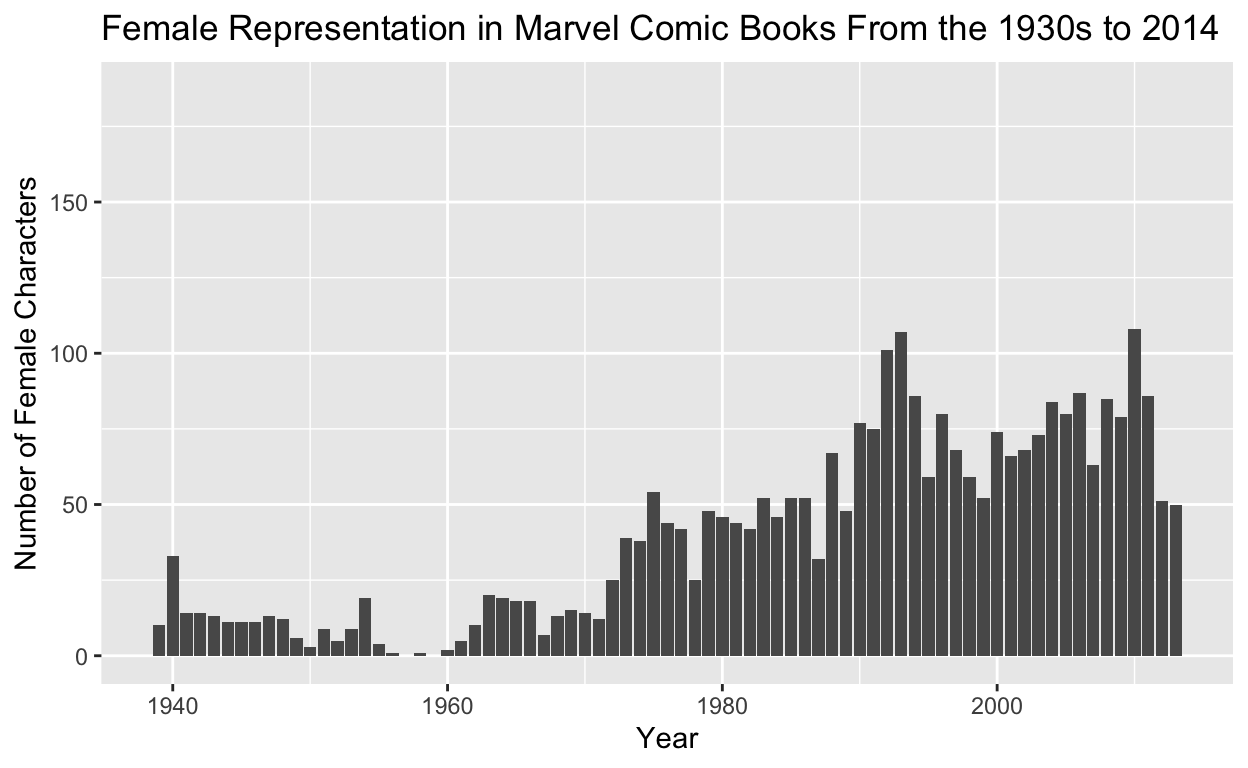
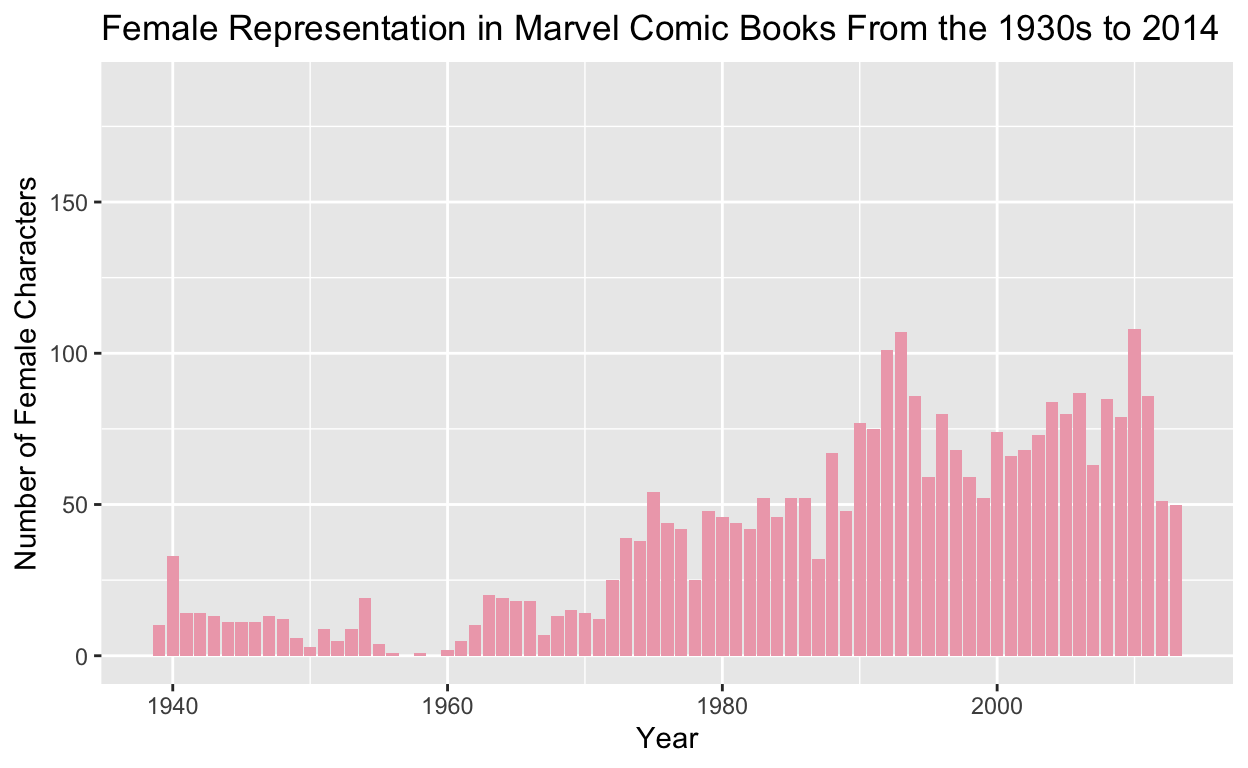
yay

Changed region(s): [[0.3438, 0.4375, 0.9688, 0.875], [0.125, 0.7188, 0.3125, 0.875]]

diff --git a/index.html b/index.html
@@ -1558,7 +1558,7 @@ code span.wa { color: #5e5e5e; font-style: italic; } /* Warning */
 <span>                                    <span class='va'>GSM</span> <span class='op'>==</span> <span class='st'>"Transgender Characters"</span> <span class='op'>~</span> <span class='fl'>1</span>,</span>
 <span>                                    <span class='cn'>TRUE</span> <span class='op'>~</span> <span class='fl'>0</span><span class='op'>)</span>,</span>
 <span>         female_character <span class='op'>=</span> <span class='fu'><a href='https://dplyr.tidyverse.org/reference/if_else.html'>if_else</a></span><span class='op'>(</span><span class='va'>SEX</span> <span class='op'>==</span> <span class='st'>"Female Characters"</span>, <span class='fl'>1</span>, <span class='fl'>0</span><span class='op'>)</span>,</span>
-<span>        minority_character <span class='op'>=</span> <span class='op'>(</span><span class='va'>female_character</span> <span class='op'>==</span> <span class='fl'>1</span> <span class='op'>|</span> <span class='va'>lgbt_character</span> <span class='op'>==</span> <span class='fl'>1</span><span class='op'>)</span><span class='op'>)</span></span>
+<span>         minority_character <span class='op'>=</span> <span class='op'>(</span><span class='va'>female_character</span> <span class='op'>==</span> <span class='fl'>1</span> <span class='op'>|</span> <span class='va'>lgbt_character</span> <span class='op'>==</span> <span class='fl'>1</span><span class='op'>)</span><span class='op'>)</span></span>
 <span></span>
 <span><span class='va'>minority_graph</span> <span class='op'>&lt;-</span> <span class='va'>data2</span> <span class='op'>|&gt;</span></span>
 <span>  <span class='fu'><a href='https://dplyr.tidyverse.org/reference/group_by.html'>group_by</a></span><span class='op'>(</span><span class='va'>ALIGN</span>, <span class='va'>minority_character</span><span class='op'>)</span> <span class='op'>|&gt;</span></span>
@@ -1587,7 +1587,7 @@ code span.wa { color: #5e5e5e; font-style: italic; } /* Warning */
 <span>       x <span class='op'>=</span> <span class='st'>"Alignment"</span>,</span>
 <span>       y <span class='op'>=</span> <span class='st'>"Number of Characters"</span>,</span>
 <span>       fill <span class='op'>=</span> <span class='st'>"Minority Affiliation"</span><span class='op'>)</span> <span class='op'>+</span></span>
-<span>    <span class='fu'><a href='https://ggplot2.tidyverse.org/reference/scale_discrete.html'>scale_x_discrete</a></span><span class='op'>(</span>guide <span class='op'>=</span> <span class='fu'><a href='https://ggplot2.tidyverse.org/reference/guide_axis.html'>guide_axis</a></span><span class='op'>(</span>n.dodge<span class='op'>=</span><span class='fl'>2</span><span class='op'>)</span><span class='op'>)</span></span>
+<span>  <span class='fu'><a href='https://ggplot2.tidyverse.org/reference/scale_discrete.html'>scale_x_discrete</a></span><span class='op'>(</span>guide <span class='op'>=</span> <span class='fu'><a href='https://ggplot2.tidyverse.org/reference/guide_axis.html'>guide_axis</a></span><span class='op'>(</span>n.dodge<span class='op'>=</span><span class='fl'>2</span><span class='op'>)</span><span class='op'>)</span></span>
 <span></span>
 <span><span class='va'>female_graph</span></span></code></pre>
 </div>
@@ -1605,7 +1605,7 @@ code span.wa { color: #5e5e5e; font-style: italic; } /* Warning */
 <span>       x <span class='op'>=</span> <span class='st'>"Alignment"</span>,</span>
 <span>       y <span class='op'>=</span> <span class='st'>"Number of Characters"</span>,</span>
 <span>       fill <span class='op'>=</span> <span class='st'>"LGBT+ Identity"</span><span class='op'>)</span> <span class='op'>+</span></span>
-<span>    <span class='fu'><a href='https://ggplot2.tidyverse.org/reference/scale_discrete.html'>scale_x_discrete</a></span><span class='op'>(</span>guide <span class='op'>=</span> <span class='fu'><a href='https://ggplot2.tidyverse.org/reference/guide_axis.html'>guide_axis</a></span><span class='op'>(</span>n.dodge<span class='op'>=</span><span class='fl'>2</span><span class='op'>)</span><span class='op'>)</span></span>
+<span>  <span class='fu'><a href='https://ggplot2.tidyverse.org/reference/scale_discrete.html'>scale_x_discrete</a></span><span class='op'>(</span>guide <span class='op'>=</span> <span class='fu'><a href='https://ggplot2.tidyverse.org/reference/guide_axis.html'>guide_axis</a></span><span class='op'>(</span>n.dodge<span class='op'>=</span><span class='fl'>2</span><span class='op'>)</span><span class='op'>)</span></span>
 <span></span>
 <span><span class='va'>lgbt_graph</span></span></code></pre>
 </div>
@@ -1647,8 +1647,7 @@ code span.wa { color: #5e5e5e; font-style: italic; } /* Warning */
 <div class="sourceCode">
 <pre class="sourceCode r"><code class="sourceCode r"><span><span class='va'>cor_table</span> <span class='op'>&lt;-</span> <span class='fu'><a href='https://rdrr.io/r/base/data.frame.html'>data.frame</a></span><span class='op'>(</span></span>
 <span>  Variable1 <span class='op'>=</span> <span class='fu'><a href='https://rdrr.io/r/base/c.html'>c</a></span><span class='op'>(</span><span class='st'>"Minority Characters (General)"</span>, <span class='st'>"Female Characters"</span>, <span class='st'>"LGBT+ Characters"</span><span class='op'>)</span>,</span>
-<span>  Correlation <span class='op'>=</span> <span class='fu'><a href='https://rdrr.io/r/base/c.html'>c</a></span><span class='op'>(</span><span class='va'>cor_minority</span>, <span class='va'>cor_female</span>, <span class='va'>cor_lgbt</span><span class='op'>)</span> </span>
-<span><span class='op'>)</span></span>
+<span>  Correlation <span class='op'>=</span> <span class='fu'><a href='https://rdrr.io/r/base/c.html'>c</a></span><span class='op'>(</span><span class='va'>cor_minority</span>, <span class='va'>cor_female</span>, <span class='va'>cor_lgbt</span><span class='op'>)</span><span class='op'>)</span></span>
 <span></span>
 <span><span class='fu'>knitr</span><span class='fu'>::</span><span class='fu'><a href='https://rdrr.io/pkg/knitr/man/kable.html'>kable</a></span><span class='op'>(</span><span class='op'>(</span><span class='va'>cor_table</span><span class='op'>)</span>, col.names <span class='op'>=</span> <span class='fu'><a href='https://rdrr.io/r/base/c.html'>c</a></span><span class='op'>(</span><span class='st'>"Idenity"</span>, <span class='st'>"Correlation With Moral Alignment"</span><span class='op'>)</span><span class='op'>)</span></span></code></pre>
 </div>
@@ -1741,37 +1740,11 @@ code span.wa { color: #5e5e5e; font-style: italic; } /* Warning */
 <div class="layout-chunk" data-layout="l-body">
 <div class="sourceCode">
 <pre class="sourceCode r"><code class="sourceCode r"><span><span class='va'>data2</span> <span class='op'>&lt;-</span> <span class='va'>data2</span> <span class='op'>|&gt;</span></span>
-<span>  <span class='fu'><a href='https://dplyr.tidyverse.org/reference/mutate.html'>mutate</a></span><span class='op'>(</span></span>
-<span>    pre_1970 <span class='op'>=</span> <span class='fu'><a href='https://dplyr.tidyverse.org/reference/if_else.html'>if_else</a></span><span class='op'>(</span><span class='va'>Year</span> <span class='op'>&lt;=</span> <span class='fl'>1970</span>, <span class='fl'>1</span>, <span class='fl'>0</span><span class='op'>)</span></span>
-<span>  <span class='op'>)</span></span>
+<span>  <span class='fu'><a href='https://dplyr.tidyverse.org/reference/mutate.html'>mutate</a></span><span class='op'>(</span>pre_1970 <span class='op'>=</span> <span class='fu'><a href='https://dplyr.tidyverse.org/reference/if_else.html'>if_else</a></span><span class='op'>(</span><span class='va'>Year</span> <span class='op'>&lt;=</span> <span class='fl'>1970</span>, <span class='fl'>1</span>, <span class='fl'>0</span><span class='op'>)</span><span class='op'>)</span></span>
 <span></span>
 <span><span class='va'>fem_fit_ate</span> <span class='op'>&lt;-</span> <span class='fu'><a href='https://rdrr.io/r/stats/lm.html'>lm</a></span><span class='op'>(</span><span class='va'>align_value</span> <span class='op'>~</span> <span class='va'>female_character</span> <span class='op'>+</span> <span class='va'>ALIVE</span> <span class='op'>+</span> <span class='va'>pre_1970</span>, data <span class='op'>=</span> <span class='va'>data2</span><span class='op'>)</span></span>
-<span><span class='fu'><a href='https://rdrr.io/r/base/summary.html'>summary</a></span><span class='op'>(</span><span class='va'>fem_fit_ate</span><span class='op'>)</span></span></code></pre>
-</div>
-<pre><code>
-Call:
-lm(formula = align_value ~ female_character + ALIVE + pre_1970, 
-    data = data2)
-
-Residuals:
-    Min      1Q  Median      3Q     Max 
--1.2299 -0.8323 -0.2299  0.8794  1.4823 
-
-Coefficients:
-                       Estimate Std. Error t value Pr(&gt;|t|)    
-(Intercept)             0.62700    0.01733  36.181  &lt; 2e-16 ***
-female_character        0.39765    0.01879  21.161  &lt; 2e-16 ***
-ALIVELiving Characters  0.20525    0.01836  11.179  &lt; 2e-16 ***
-pre_1970               -0.10931    0.01915  -5.708 1.17e-08 ***
----
-Signif. codes:  0 &#39;***&#39; 0.001 &#39;**&#39; 0.01 &#39;*&#39; 0.05 &#39;.&#39; 0.1 &#39; &#39; 1
-
-Residual standard error: 0.8803 on 12297 degrees of freedom
-  (1263 observations deleted due to missingness)
-Multiple R-squared:  0.05308,   Adjusted R-squared:  0.05285 
-F-statistic: 229.8 on 3 and 12297 DF,  p-value: &lt; 2.2e-16</code></pre>
-<div class="sourceCode">
-<pre class="sourceCode r"><code class="sourceCode r"><span><span class='fu'>modelsummary</span><span class='fu'>::</span><span class='fu'><a href='https://rdrr.io/pkg/modelsummary/man/modelsummary.html'>modelsummary</a></span><span class='op'>(</span><span class='va'>fem_fit_ate</span>,</span>
+<span></span>
+<span><span class='fu'>modelsummary</span><span class='fu'>::</span><span class='fu'><a href='https://rdrr.io/pkg/modelsummary/man/modelsummary.html'>modelsummary</a></span><span class='op'>(</span><span class='va'>fem_fit_ate</span>,</span>
 <span>                           statistic <span class='op'>=</span> <span class='fu'><a href='https://rdrr.io/r/base/c.html'>c</a></span><span class='op'>(</span><span class='st'>"s.e. = {std.error}"</span>,</span>
 <span>                                         <span class='st'>"p = {p.value}"</span><span class='op'>)</span>,</span>
 <span>                           gof_map <span class='op'>=</span> <span class='fu'><a href='https://rdrr.io/r/base/c.html'>c</a></span><span class='op'>(</span><span class='st'>"nobs"</span>, <span class='st'>"r.squared"</span>, <span class='st'>"adj.r.squared"</span><span class='op'>)</span>,</span>
@@ -1908,32 +1881,8 @@ R2 Adj.
 <div class="layout-chunk" data-layout="l-body">
 <div class="sourceCode">
 <pre class="sourceCode r"><code class="sourceCode r"><span><span class='va'>lgbt_fit_ate</span> <span class='op'>&lt;-</span> <span class='fu'><a href='https://rdrr.io/r/stats/lm.html'>lm</a></span><span class='op'>(</span><span class='va'>align_value</span> <span class='op'>~</span> <span class='va'>lgbt_character</span> <span class='op'>+</span> <span class='va'>ALIVE</span> <span class='op'>+</span> <span class='va'>pre_1970</span>, data <span class='op'>=</span> <span class='va'>data2</span><span class='op'>)</span></span>
-<span><span class='fu'><a href='https://rdrr.io/r/base/summary.html'>summary</a></span><span class='op'>(</span><span class='va'>lgbt_fit_ate</span><span class='op'>)</span></span></code></pre>
-</div>
-<pre><code>
-Call:
-lm(formula = align_value ~ lgbt_character + ALIVE + pre_1970, 
-    data = data2)
-
-Residuals:
-    Min      1Q  Median      3Q     Max 
--1.5922 -0.9254 -0.5458  1.0746  1.4542 
-
-Coefficients:
-                       Estimate Std. Error t value Pr(&gt;|t|)    
-(Intercept)             0.71299    0.01668  42.738  &lt; 2e-16 ***
-lgbt_character          0.66689    0.10478   6.365 2.02e-10 ***
-ALIVELiving Characters  0.21236    0.01826  11.628  &lt; 2e-16 ***
-pre_1970               -0.16717    0.01877  -8.907  &lt; 2e-16 ***
----
-Signif. codes:  0 &#39;***&#39; 0.001 &#39;**&#39; 0.01 &#39;*&#39; 0.05 &#39;.&#39; 0.1 &#39; &#39; 1
-
-Residual standard error: 0.8923 on 12885 degrees of freedom
-  (675 observations deleted due to missingness)
-Multiple R-squared:  0.02096,   Adjusted R-squared:  0.02073 
-F-statistic: 91.96 on 3 and 12885 DF,  p-value: &lt; 2.2e-16</code></pre>
-<div class="sourceCode">
-<pre class="sourceCode r"><code class="sourceCode r"><span><span class='fu'>modelsummary</span><span class='fu'>::</span><span class='fu'><a href='https://rdrr.io/pkg/modelsummary/man/modelsummary.html'>modelsummary</a></span><span class='op'>(</span><span class='va'>lgbt_fit_ate</span>,</span>
+<span></span>
+<span><span class='fu'>modelsummary</span><span class='fu'>::</span><span class='fu'><a href='https://rdrr.io/pkg/modelsummary/man/modelsummary.html'>modelsummary</a></span><span class='op'>(</span><span class='va'>lgbt_fit_ate</span>,</span>
 <span>                           statistic <span class='op'>=</span> <span class='fu'><a href='https://rdrr.io/r/base/c.html'>c</a></span><span class='op'>(</span><span class='st'>"s.e. = {std.error}"</span>,</span>
 <span>                                         <span class='st'>"p = {p.value}"</span><span class='op'>)</span>,</span>
 <span>                           gof_map <span class='op'>=</span> <span class='fu'><a href='https://rdrr.io/r/base/c.html'>c</a></span><span class='op'>(</span><span class='st'>"nobs"</span>, <span class='st'>"r.squared"</span>, <span class='st'>"adj.r.squared"</span><span class='op'>)</span>,</span>
@@ -2075,12 +2024,11 @@ R2 Adj.
 <div class="sourceCode">
 <pre class="sourceCode r"><code class="sourceCode r"><span><span class='va'>data2</span> <span class='op'>|&gt;</span></span>
 <span>  <span class='fu'><a href='https://ggplot2.tidyverse.org/reference/ggplot.html'>ggplot</a></span><span class='op'>(</span><span class='fu'><a href='https://ggplot2.tidyverse.org/reference/aes.html'>aes</a></span><span class='op'>(</span>x <span class='op'>=</span> <span class='va'>lgbt_character</span>, y <span class='op'>=</span> <span class='va'>align_value</span><span class='op'>)</span><span class='op'>)</span> <span class='op'>+</span></span>
-<span><span class='fu'><a href='https://ggplot2.tidyverse.org/reference/geom_point.html'>geom_point</a></span> <span class='op'>(</span>position <span class='op'>=</span> <span class='st'>"jitter"</span>, color <span class='op'>=</span> <span class='st'>"coral"</span><span class='op'>)</span> <span class='op'>+</span></span>
-<span><span class='fu'><a href='https://ggplot2.tidyverse.org/reference/labs.html'>labs</a></span><span class='op'>(</span></span>
-<span>x <span class='op'>=</span> <span class='st'>"LGBT+ Identity (0 Being Straight &amp; Cis, 1 Being LGBT+)"</span>,</span>
-<span>y <span class='op'>=</span> <span class='st'>"Alignment on a Scale of 0 (Evil) to 2 (Good)"</span>,</span>
-<span>title <span class='op'>=</span> <span class='st'>"Relationship Between LGBT+ Identity and Moral Alignment in Marvel Comics"</span><span class='op'>)</span>  <span class='op'>+</span></span>
-<span><span class='fu'><a href='https://ggplot2.tidyverse.org/reference/geom_smooth.html'>geom_smooth</a></span><span class='op'>(</span>method <span class='op'>=</span> <span class='st'>"lm"</span>, se <span class='op'>=</span> <span class='cn'>FALSE</span>, color <span class='op'>=</span> <span class='st'>"deeppink3"</span>, size <span class='op'>=</span> <span class='fl'>1.5</span><span class='op'>)</span></span></code></pre>
+<span>  <span class='fu'><a href='https://ggplot2.tidyverse.org/reference/geom_point.html'>geom_point</a></span> <span class='op'>(</span>position <span class='op'>=</span> <span class='st'>"jitter"</span>, color <span class='op'>=</span> <span class='st'>"coral"</span><span class='op'>)</span> <span class='op'>+</span></span>
+<span>  <span class='fu'><a href='https://ggplot2.tidyverse.org/reference/labs.html'>labs</a></span><span class='op'>(</span>x <span class='op'>=</span> <span class='st'>"LGBT+ Identity (0 Being Straight &amp; Cis, 1 Being LGBT+)"</span>,</span>
+<span>       y <span class='op'>=</span> <span class='st'>"Alignment on a Scale of 0 (Evil) to 2 (Good)"</span>,</span>
+<span>       title <span class='op'>=</span> <span class='st'>"Relationship Between LGBT+ Identity and Moral Alignment in Marvel Comics"</span><span class='op'>)</span>  <span class='op'>+</span></span>
+<span>  <span class='fu'><a href='https://ggplot2.tidyverse.org/reference/geom_smooth.html'>geom_smooth</a></span><span class='op'>(</span>method <span class='op'>=</span> <span class='st'>"lm"</span>, se <span class='op'>=</span> <span class='cn'>FALSE</span>, color <span class='op'>=</span> <span class='st'>"deeppink3"</span>, size <span class='op'>=</span> <span class='fl'>1.5</span><span class='op'>)</span></span></code></pre>
 </div>
 <p><img src="index_files/figure-html5/unnamed-chunk-10-1.png" width="624" /></p>
 </div>
@@ -2088,12 +2036,11 @@ R2 Adj.
 <div class="sourceCode">
 <pre class="sourceCode r"><code class="sourceCode r"><span><span class='va'>data2</span> <span class='op'>|&gt;</span></span>
 <span>  <span class='fu'><a href='https://ggplot2.tidyverse.org/reference/ggplot.html'>ggplot</a></span><span class='op'>(</span><span class='fu'><a href='https://ggplot2.tidyverse.org/reference/aes.html'>aes</a></span><span class='op'>(</span>x <span class='op'>=</span> <span class='va'>female_character</span>, y <span class='op'>=</span> <span class='va'>align_value</span><span class='op'>)</span><span class='op'>)</span> <span class='op'>+</span></span>
-<span><span class='fu'><a href='https://ggplot2.tidyverse.org/reference/geom_point.html'>geom_point</a></span> <span class='op'>(</span>position <span class='op'>=</span> <span class='st'>"jitter"</span>, color <span class='op'>=</span> <span class='st'>"darkslategray3"</span><span class='op'>)</span> <span class='op'>+</span></span>
-<span><span class='fu'><a href='https://ggplot2.tidyverse.org/reference/labs.html'>labs</a></span><span class='op'>(</span></span>
-<span>x <span class='op'>=</span> <span class='st'>"Gender Identity (0 Representing Male Characters and 1 Representing Female Characters)"</span>,</span>
-<span>y <span class='op'>=</span> <span class='st'>"Alignment on a Scale of 0 (Evil) to 2 (Good)"</span>,</span>
-<span>title <span class='op'>=</span> <span class='st'>"Relationship Between Gender Identity and Moral Alignment in Marvel Comics"</span><span class='op'>)</span> <span class='op'>+</span></span>
-<span><span class='fu'><a href='https://ggplot2.tidyverse.org/reference/geom_smooth.html'>geom_smooth</a></span><span class='op'>(</span>method <span class='op'>=</span> <span class='st'>"lm"</span>, se <span class='op'>=</span> <span class='cn'>FALSE</span>, color <span class='op'>=</span> <span class='st'>"darkslateblue"</span>, size <span class='op'>=</span> <span class='fl'>1.5</span><span class='op'>)</span></span></code></pre>
+<span>  <span class='fu'><a href='https://ggplot2.tidyverse.org/reference/geom_point.html'>geom_point</a></span> <span class='op'>(</span>position <span class='op'>=</span> <span class='st'>"jitter"</span>, color <span class='op'>=</span> <span class='st'>"darkslategray3"</span><span class='op'>)</span> <span class='op'>+</span></span>
+<span>  <span class='fu'><a href='https://ggplot2.tidyverse.org/reference/labs.html'>labs</a></span><span class='op'>(</span>x <span class='op'>=</span> <span class='st'>"Gender Identity (0 Representing Male Characters and 1 Representing Female Characters)"</span>,</span>
+<span>       y <span class='op'>=</span> <span class='st'>"Alignment on a Scale of 0 (Evil) to 2 (Good)"</span>,</span>
+<span>       title <span class='op'>=</span> <span class='st'>"Relationship Between Gender Identity and Moral Alignment in Marvel Comics"</span><span class='op'>)</span> <span class='op'>+</span></span>
+<span>  <span class='fu'><a href='https://ggplot2.tidyverse.org/reference/geom_smooth.html'>geom_smooth</a></span><span class='op'>(</span>method <span class='op'>=</span> <span class='st'>"lm"</span>, se <span class='op'>=</span> <span class='cn'>FALSE</span>, color <span class='op'>=</span> <span class='st'>"darkslateblue"</span>, size <span class='op'>=</span> <span class='fl'>1.5</span><span class='op'>)</span></span></code></pre>
 </div>
 <p><img src="index_files/figure-html5/unnamed-chunk-11-1.png" width="624" /></p>
 </div>
@@ -2106,7 +2053,7 @@ R2 Adj.
 <span>  <span class='fu'><a href='https://dplyr.tidyverse.org/reference/group_by.html'>group_by</a></span><span class='op'>(</span><span class='va'>Year</span><span class='op'>)</span> <span class='op'>|&gt;</span></span>
 <span>  <span class='fu'><a href='https://dplyr.tidyverse.org/reference/summarise.html'>summarize</a></span><span class='op'>(</span>n <span class='op'>=</span> <span class='fu'><a href='https://dplyr.tidyverse.org/reference/context.html'>n</a></span><span class='op'>(</span><span class='op'>)</span><span class='op'>)</span> <span class='op'>|&gt;</span></span>
 <span>  <span class='fu'><a href='https://ggplot2.tidyverse.org/reference/ggplot.html'>ggplot</a></span><span class='op'>(</span>mapping <span class='op'>=</span> <span class='fu'><a href='https://ggplot2.tidyverse.org/reference/aes.html'>aes</a></span><span class='op'>(</span>x <span class='op'>=</span> <span class='va'>Year</span>, y <span class='op'>=</span> <span class='va'>n</span><span class='op'>)</span><span class='op'>)</span> <span class='op'>+</span></span>
-<span>  <span class='fu'><a href='https://ggplot2.tidyverse.org/reference/geom_bar.html'>geom_col</a></span><span class='op'>(</span>position <span class='op'>=</span> <span class='st'>"dodge"</span><span class='op'>)</span> <span class='op'>+</span></span>
+<span>  <span class='fu'><a href='https://ggplot2.tidyverse.org/reference/geom_bar.html'>geom_col</a></span><span class='op'>(</span>fill <span class='op'>=</span> <span class='st'>"purple3"</span>, position <span class='op'>=</span> <span class='st'>"dodge"</span><span class='op'>)</span> <span class='op'>+</span></span>
 <span>  <span class='fu'><a href='https://ggplot2.tidyverse.org/reference/labs.html'>labs</a></span><span class='op'>(</span>title <span class='op'>=</span> <span class='st'>"LGBT+ Representation in Marvel Comic Books From the 1940s to 2014"</span>,</span>
 <span>       x <span class='op'>=</span> <span class='st'>"Year"</span>,</span>
 <span>       y <span class='op'>=</span> <span class='st'>"Number of LGBT+ Characters"</span><span class='op'>)</span></span>
@@ -2122,7 +2069,7 @@ R2 Adj.
 <span>  <span class='fu'><a href='https://dplyr.tidyverse.org/reference/group_by.html'>group_by</a></span><span class='op'>(</span><span class='va'>Year</span><span class='op'>)</span> <span class='op'>|&gt;</span></span>
 <span>  <span class='fu'><a href='https://dplyr.tidyverse.org/reference/summarise.html'>summarize</a></span><span class='op'>(</span>n <span class='op'>=</span> <span class='fu'><a href='https://dplyr.tidyverse.org/reference/context.html'>n</a></span><span class='op'>(</span><span class='op'>)</span><span class='op'>)</span> <span class='op'>|&gt;</span></span>
 <span>  <span class='fu'><a href='https://ggplot2.tidyverse.org/reference/ggplot.html'>ggplot</a></span><span class='op'>(</span>mapping <span class='op'>=</span> <span class='fu'><a href='https://ggplot2.tidyverse.org/reference/aes.html'>aes</a></span><span class='op'>(</span>x <span class='op'>=</span> <span class='va'>Year</span>, y <span class='op'>=</span> <span class='va'>n</span><span class='op'>)</span><span class='op'>)</span> <span class='op'>+</span></span>
-<span>  <span class='fu'><a href='https://ggplot2.tidyverse.org/reference/geom_bar.html'>geom_col</a></span><span class='op'>(</span>position <span class='op'>=</span> <span class='st'>"dodge"</span><span class='op'>)</span> <span class='op'>+</span></span>
+<span>  <span class='fu'><a href='https://ggplot2.tidyverse.org/reference/geom_bar.html'>geom_col</a></span><span class='op'>(</span>fill <span class='op'>=</span> <span class='st'>"pink2"</span>, position <span class='op'>=</span> <span class='st'>"dodge"</span><span class='op'>)</span> <span class='op'>+</span></span>
 <span>  <span class='fu'><a href='https://ggplot2.tidyverse.org/reference/labs.html'>labs</a></span><span class='op'>(</span>title <span class='op'>=</span> <span class='st'>"Female Representation in Marvel Comic Books From the 1930s to 2014"</span>,</span>
 <span>       x <span class='op'>=</span> <span class='st'>"Year"</span>,</span>
 <span>       y <span class='op'>=</span> <span class='st'>"Number of Female Characters"</span><span class='op'>)</span></span>
@@ -2134,7 +2081,7 @@ R2 Adj.
 <p>Additionally, most Marvel characters in the LGBT+ community were gay or bisexual. For readers to become aware of this aspect of a character’s identity, it means the character was probably involved in a romantic plot or subplot, and such plots are usually reserved for heroes, rather than villains. I would be interested in doing further research into how romance affects the moral alignment of both LGBT+ characters and women, as many of the earliest Marvel women were probably just romantic interests for the heroes, automatically suggesting they were neutral or good characters. I would also be interested in looking at the way race affected whether characters were portrayed as heroes or villains. Unfortunately, this information was not available in this data set and I struggled to find it elsewhere. If I had more time, I would manually enter data regarding race and romantic status so that these potential confounding factors could be explored at more length.</p>
 <p>Overall, I struggled with the fact that identity is not as explicit in the Marvel world as it is in our real world. Especially among villains, there are characters of various “alien” or “monster” types that can’t obviously be categorized as a certain gender identity. For this reason, I wasn’t really able to explore the effect of being non-binary on alignment— I assumed the vast majority of characters categorized this way were assigned this label because they were not actually human (thus, were much more likely to be villains).</p>
 <p>In conclusion, I found it intriguing that female and LGBT+ characters were in general portrayed as the hero much more often than the villain. Although this seems like a good thing in terms of social repercussions, it’s important to note that across the board, there were more straight, cis men represented in every category. Perhaps the most striking conclusion from my research, even more than alignment, is how grossly underrepresented women and LGBT+ characters are in Marvel comics. And, as my research proved, even when they are represented they are almost always reduced to just one role, that of the hero. This lack of representation for LGBT+ and female characters across the board reinforces the need for more female and LGBT+ characters of all alignments: good, neutral, and bad.</p>
-<div class="sourceCode" id="cb9"><pre class="sourceCode r distill-force-highlighting-css"><code class="sourceCode r"></code></pre></div>
+<div class="sourceCode" id="cb7"><pre class="sourceCode r distill-force-highlighting-css"><code class="sourceCode r"></code></pre></div>
 <!--radix_placeholder_article_footer-->
 <!--/radix_placeholder_article_footer-->
 </div>
